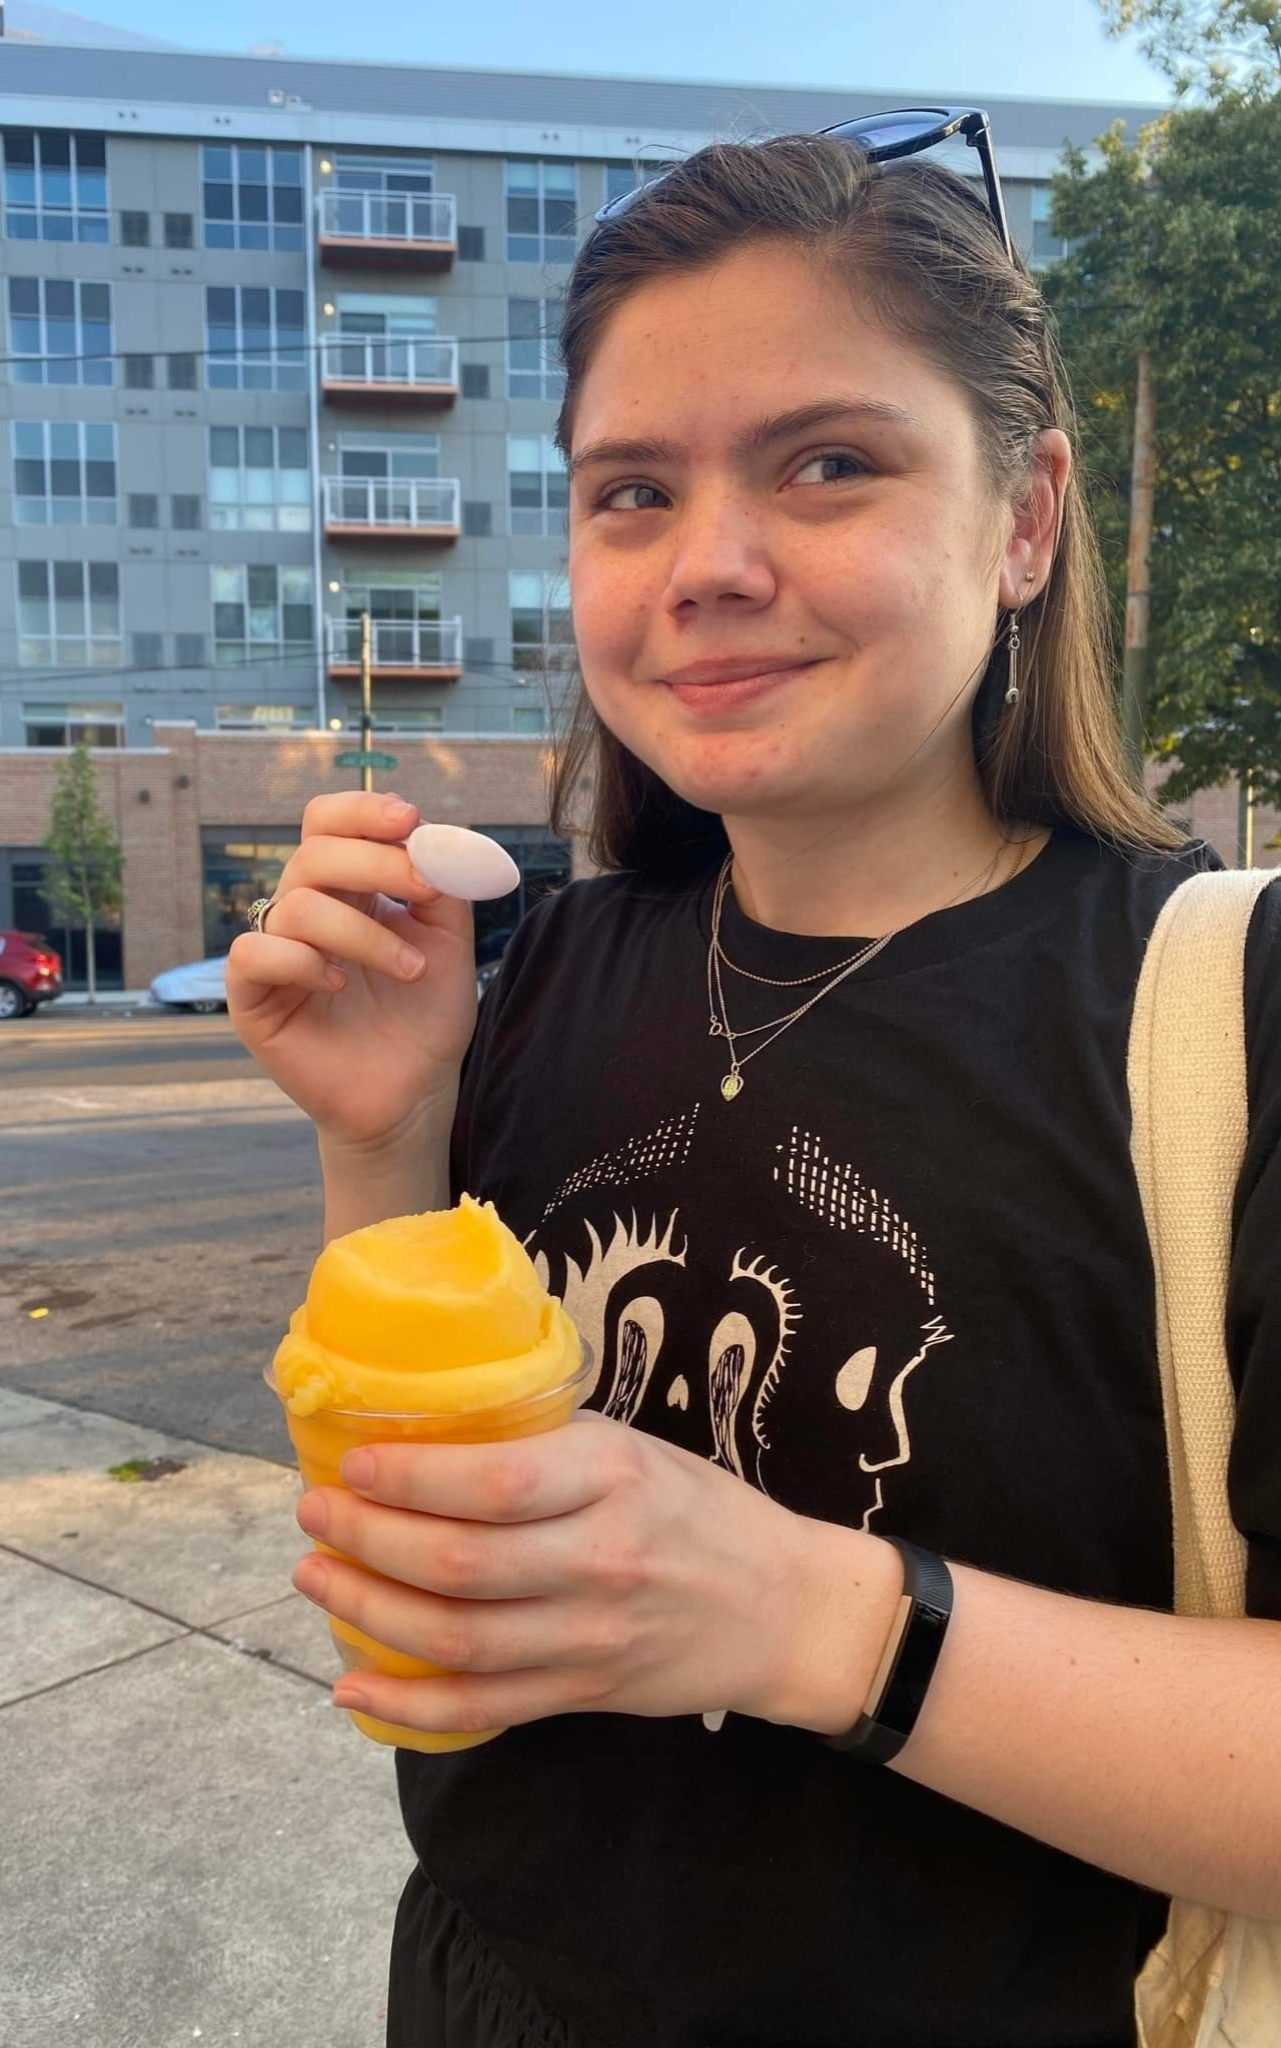
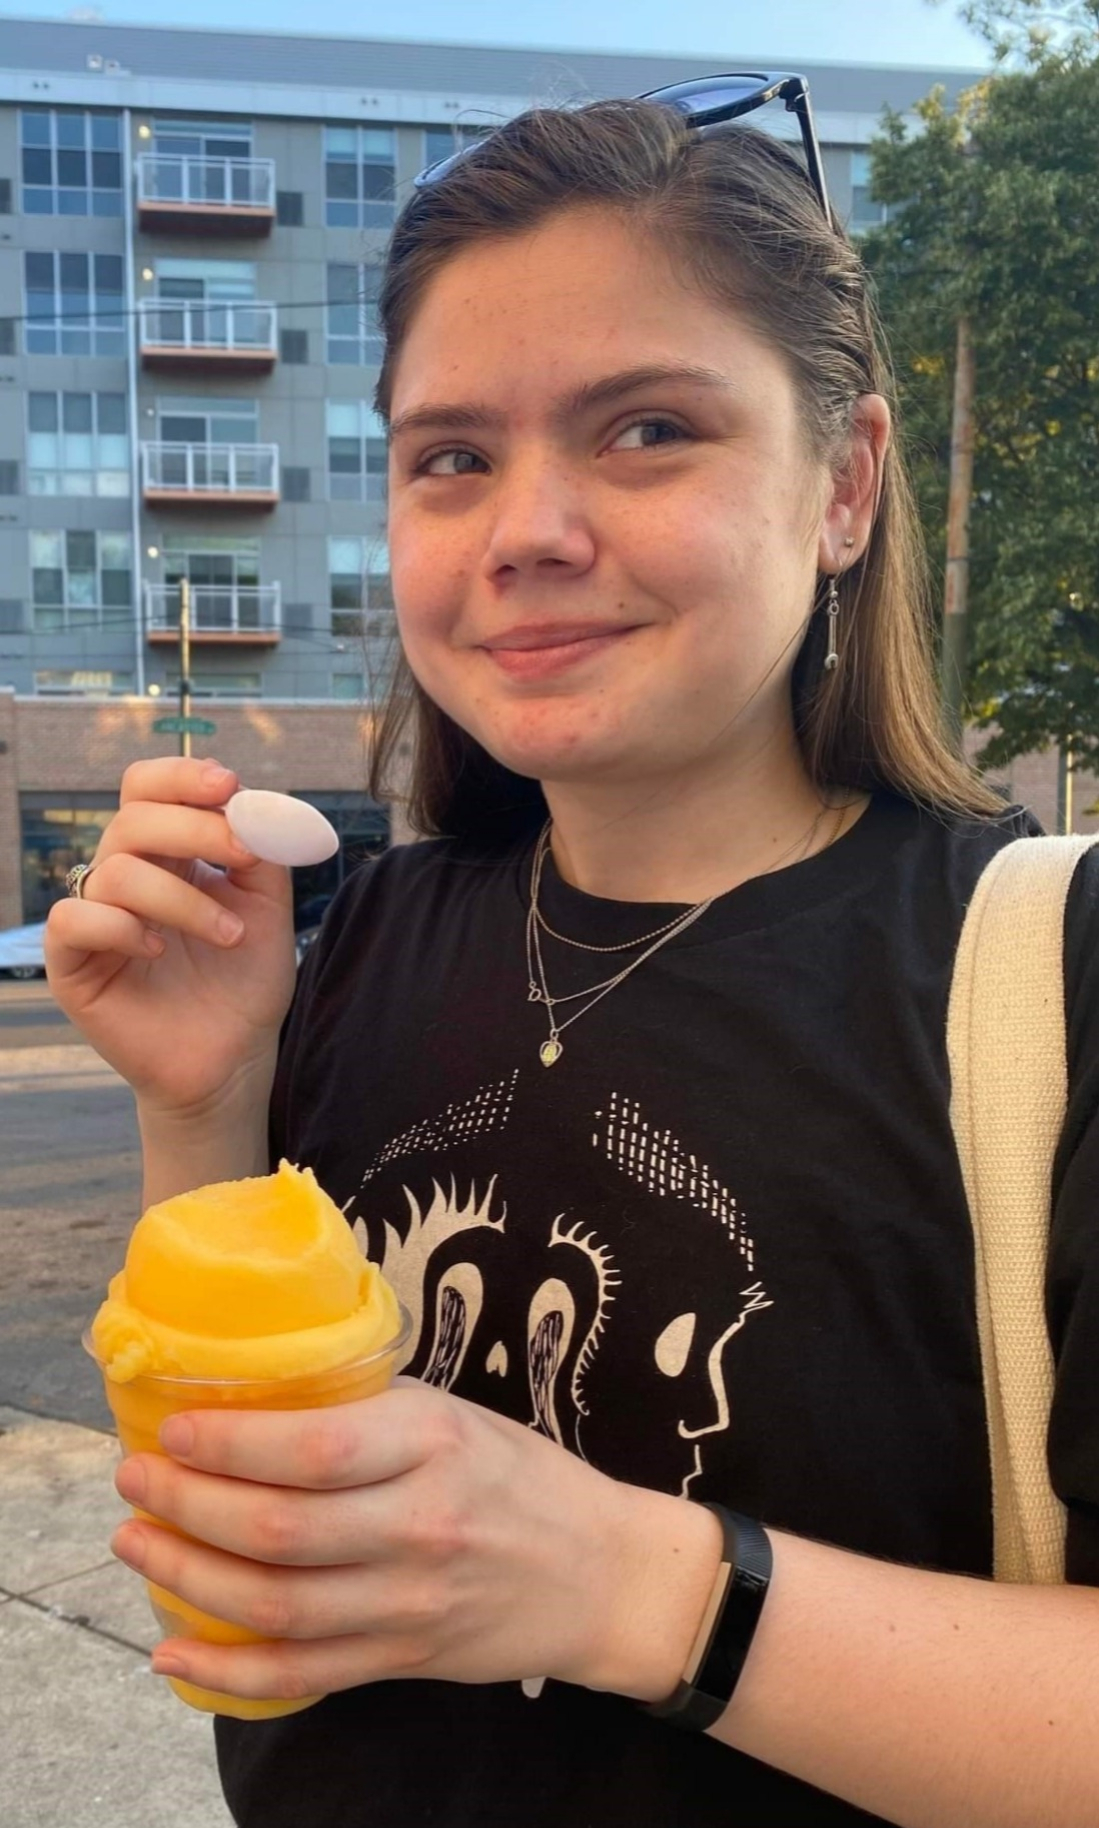
flex box for headers and picture

diff --git a/react-website/src/pages/contact.js b/react-website/src/pages/contact.js
@@ -1,5 +1,7 @@
 import React from 'react';
 import Navbar from "../components/Navigation/Navbar";
+import me from '../images/me.jpg'
+import './contact.css'
 
 const Contact = () => {
 return (
@@ -7,7 +9,15 @@ return (
 	<Navbar />
 	<h1>Hi!</h1> 
 	
-	<h2>I'm Rebecca Moroz, a Software Engineering major at Drexel University and the developer of this site!</h2>
+	<div class="flex-container">
+		<div class="flex-child">
+			<h2>I'm Rebecca Moroz, a Software Engineering major at Drexel University and the developer of this site!</h2>
+		</div>
+	
+		<div class="flex-child">
+			<img src={me} class='center' alt=''></img>
+		</div>
+	</div>
 	</div>
 );
 };

diff --git a/react-website/src/pages/contact.css b/react-website/src/pages/contact.css
@@ -1,3 +1,15 @@
 h2 {
     font-size: larger;
 }
+
+.flex-container {
+    display: flex;
+}
+
+.flex-child {
+    flex: 1;
+}  
+
+.flex-child:first-child {
+    margin-right: 20px;
+} 

diff --git a/react-website/src/components/Card/Card.css b/react-website/src/components/Card/Card.css
@@ -2,10 +2,3 @@ h1 {
     margin-top: 70px;
     margin-left: 15px;
 }
-
-h2 {
-    margin-top: 70px;
-    margin-left: 400px;
-    margin-right: 400px;
-    text-align: center;
-}
